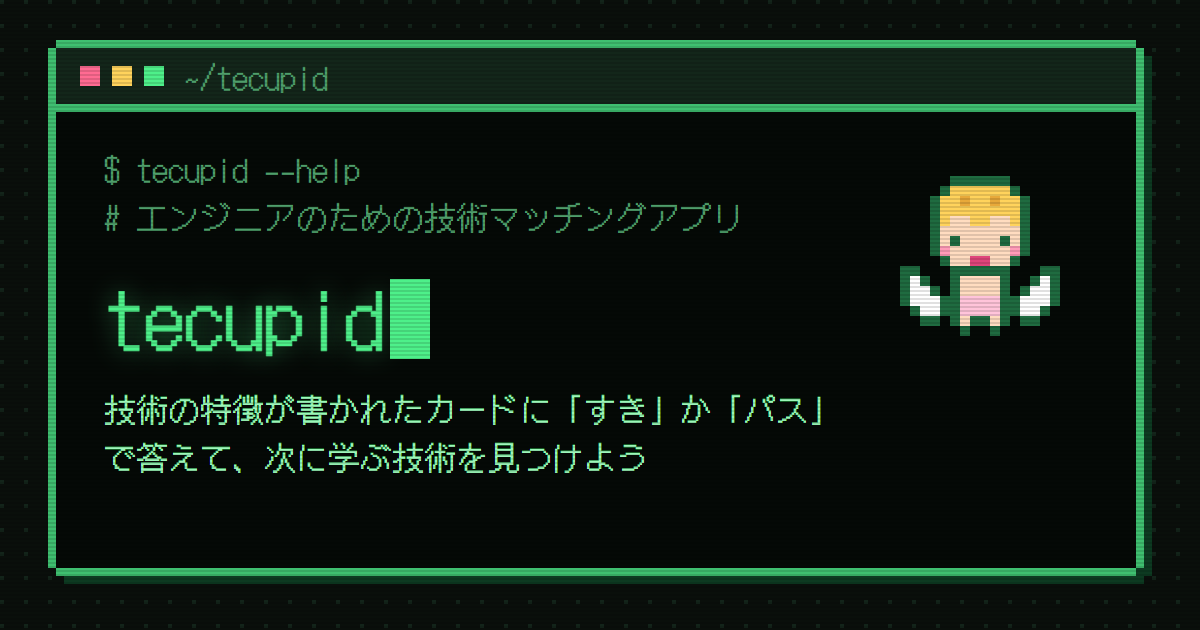
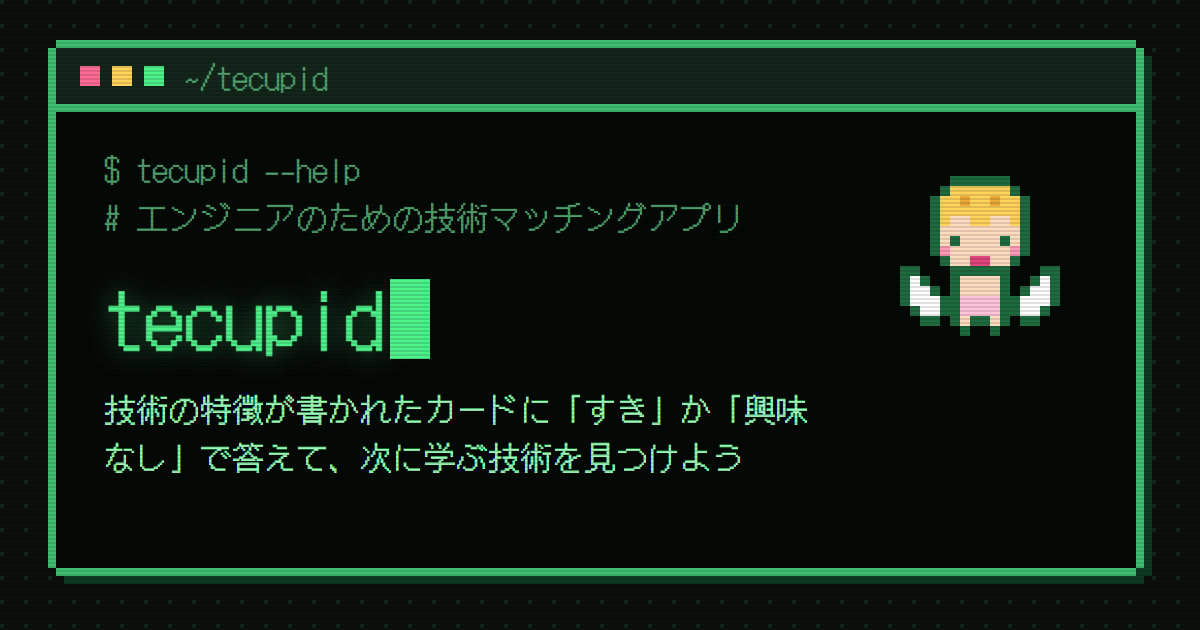
Rename パス to 興味なし; prepare the repo for going public
Wording (beta feedback: パス is not the opposite of すき):
- Buttons, stamps, the card hint, start screen, about page, README,
  and the default thumbnail now say 興味なし

Public repo:
- Issue forms: technology request (official docs URL required, so
  tags can be set from verifiable facts) and bug report, both
  warning not to post personal info
- Result screen and about page link to the technology request form
- CI runs with read-only contents permission

Audit before going public: no secrets, tokens, account IDs, personal
emails, names, or local paths in any commit; authors are noreply.

Changed region(s): [[0.0925, 0.6937, 0.6167, 0.754], [0.6167, 0.6032, 0.7092, 0.6937]]

diff --git a/src/components/TecupidApp.tsx b/src/components/TecupidApp.tsx
@@ -160,7 +160,7 @@ export default function TecupidApp({ sharedIds }: { sharedIds?: string[] }) {
         <button className="btn-key nope" onClick={() => answer(false)} aria-keyshortcuts="n ArrowLeft">
           <kbd className="keycap" aria-hidden="true">n</kbd>
           <PixelSprite sprite={CROSS} scale={2} />
-          <span>パス</span>
+          <span>興味なし</span>
         </button>
         <button className="btn-key like" onClick={() => answer(true)} aria-keyshortcuts="y ArrowRight">
           <kbd className="keycap" aria-hidden="true">y</kbd>
@@ -230,7 +230,7 @@ function StartScreen({
       </h1>
       <div className="term-lines">
         <p>技術の特徴が書かれたカードが届きます。</p>
-        <p>気になったら「すき」、ちがうなら「パス」。</p>
+        <p>気になったら「すき」、違えば「興味なし」。</p>
         <p>あなたにぴったりの技術を見つけます。</p>
       </div>
 
@@ -412,13 +412,13 @@ function SwipeCard({
       {stamp === "nope" && !exiting && (
         <span className="stamp nope">
           <PixelSprite sprite={CROSS} scale={2} />
-          パス
+          興味なし
         </span>
       )}
       {exiting && (
         <div className={`big-stamp ${exiting}`} aria-hidden="true">
           <PixelSprite sprite={exiting === "like" ? HEART : CROSS} scale={6} />
-          <span>{exiting === "like" ? "すき！" : "パス"}</span>
+          <span>{exiting === "like" ? "すき！" : "興味なし"}</span>
         </div>
       )}
       <p className="term-prompt" aria-hidden="true">
@@ -427,7 +427,7 @@ function SwipeCard({
       <p className="card-text">{card.text}</p>
       {card.example && <p className="card-example">{card.example}</p>}
       <p className="term-ask" aria-hidden="true">
-        ← パス ／ すき →
+        ← 興味なし ／ すき →
         <span className="cursor" />
       </p>
     </TermWindow>
@@ -512,6 +512,8 @@ function ResultScreen({ answers, level, onRetry }: { answers: Answer[]; level: n
         推薦は学習の参考情報です。キャリアや就職での成果を保証するものではありません。
         <br />
         技術の情報は {DATA_UPDATED} 時点のものです。最新の情報は公式ドキュメントで確認してください。
+        <br />
+        載ってほしい技術は、<a href="https://github.com/yonu33/tecupid/issues/new?template=tech-request.yml" target="_blank" rel="noopener noreferrer">GitHub でリクエスト</a>できます。
       </p>
     </main>
   );

diff --git a/scripts/generate-og.ts b/scripts/generate-og.ts
@@ -101,7 +101,7 @@ function defaultPage(): string {
     "~/tecupid",
     `<p class="muted">$ tecupid --help</p><p class="muted"># エンジニアのための技術マッチングアプリ</p>
 <div class="names"><span>tecupid<span class="cursor"></span></span></div>
-<p class="desc">技術の特徴が書かれたカードに「すき」か「パス」で答えて、次に学ぶ技術を見つけよう</p>`,
+<p class="desc">技術の特徴が書かれたカードに「すき」か「興味なし」で答えて、次に学ぶ技術を見つけよう</p>`,
   );
 }
 

diff --git a/src/components/sprites.ts b/src/components/sprites.ts
@@ -53,7 +53,7 @@ export const SMALL_HEART_EMPTY: Sprite = {
   palette: { k: OUTLINE, e: "var(--px-empty)" },
 };
 
-/** パス（12 × 12） */
+/** 興味なし（12 × 12） */
 export const CROSS: Sprite = {
   rows: [
     "kkk......kkk",

diff --git a/README.md b/README.md
@@ -2,7 +2,7 @@
 
 エンジニアのための技術マッチングアプリ。
 
-技術の特徴が書かれたカードに「すき」か「パス」で答えると、あなたにぴったりの技術を部門ごとに推薦します。最初に経験レベル（0〜10）を選ぶと、初心者には専門用語の少ないカードを出し、学び始めやすい技術を少し優先します。
+技術の特徴が書かれたカードに「すき」か「興味なし」で答えると、あなたにぴったりの技術を部門ごとに推薦します。最初に経験レベル（0〜10）を選ぶと、初心者には専門用語の少ないカードを出し、学び始めやすい技術を少し優先します。
 
 > This is a web application that supports you in selecting a new technology to learn.
 
@@ -58,6 +58,10 @@ $env:SITE_URL="https://tecupid.yonu.work"; npm run deploy
 | `scripts/simulate-min-answers.ts` | 途中で結果を見たときに、1 位がどれだけ変わるかを測るシミュレーション |
 | `wrangler.jsonc` | Cloudflare Workers の設定（静的アセットだけを配信） |
 | `docs/` | 要件定義書と、データのレビュー用の表 |
+
+## 技術の追加リクエスト
+
+載せてほしい言語やフレームワークは、[技術の追加リクエスト](https://github.com/yonu33/tecupid/issues/new?template=tech-request.yml)から Issue を立ててください。推薦には公式ドキュメントで確かめられる性質だけを使うため、公式ドキュメントの URL を書いてもらっています。
 
 ## ライセンス
 

diff --git a/docs/feature-cards.md b/docs/feature-cards.md
@@ -198,4 +198,4 @@
 
 - **専門用語が多い（対応済み）:** 経験レベルが 3 以下の人には、専門用語の多いカードを出さないようにした（5.1）。LV.4 以上の人には、補足の説明つきでそのまま出す。
 - **タグに偏りがある:** 部門については「関心を聞くカードを最低 1 枚入れる」ようにした。ただし `systems`（低レイヤ）はまだ部門になっていないため、関心を聞くカードが 1 枚も出ないことがある。
-- **「パス」の意味が 2 通りある:** たとえば d08 を「パス」にしたとき、「フロントエンドが好き」なのか、単に「興味がない」なのかは区別できない。MVP ではこのままにして、結果を見て調整する。
+- **「興味なし」の意味が 2 通りある:** たとえば d08 を「興味なし」にしたとき、「フロントエンドが好き」なのか、単に「興味がない」なのかは区別できない。MVP ではこのままにして、結果を見て調整する。
